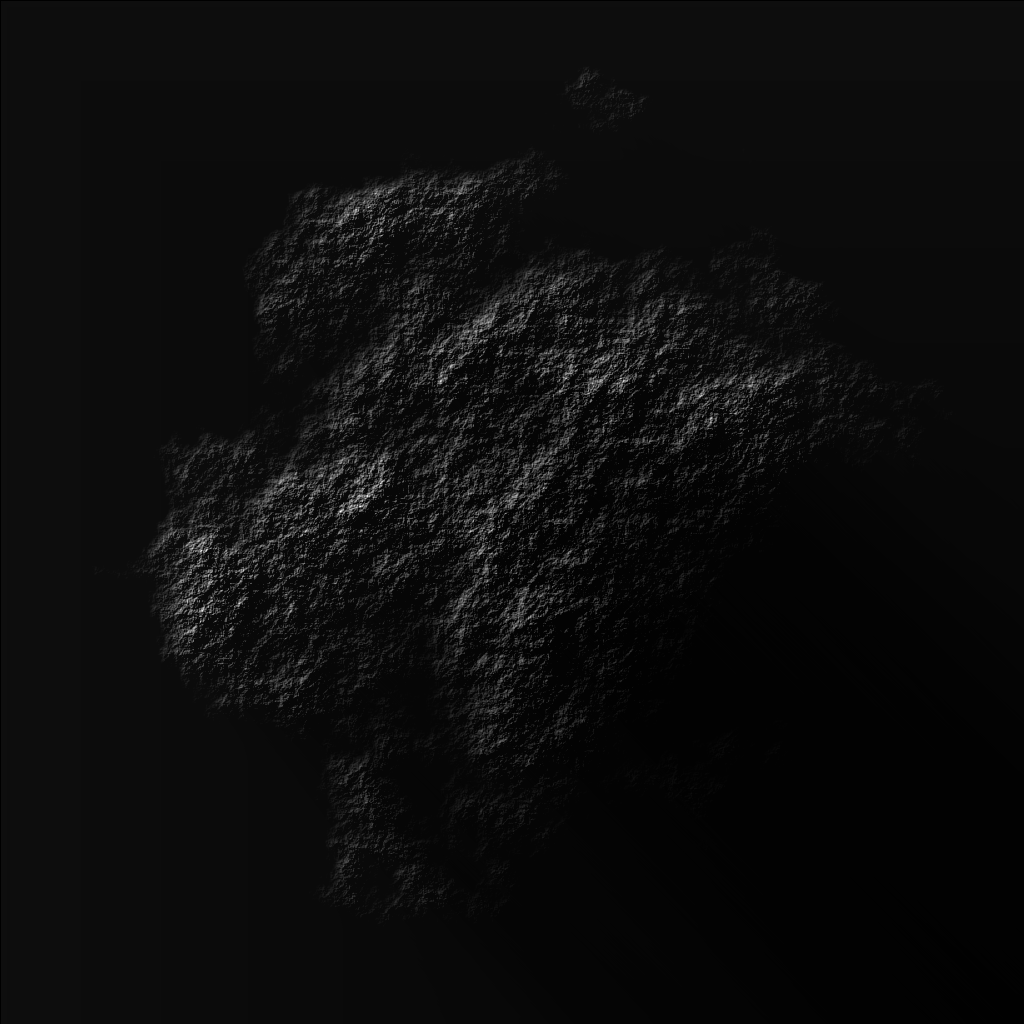
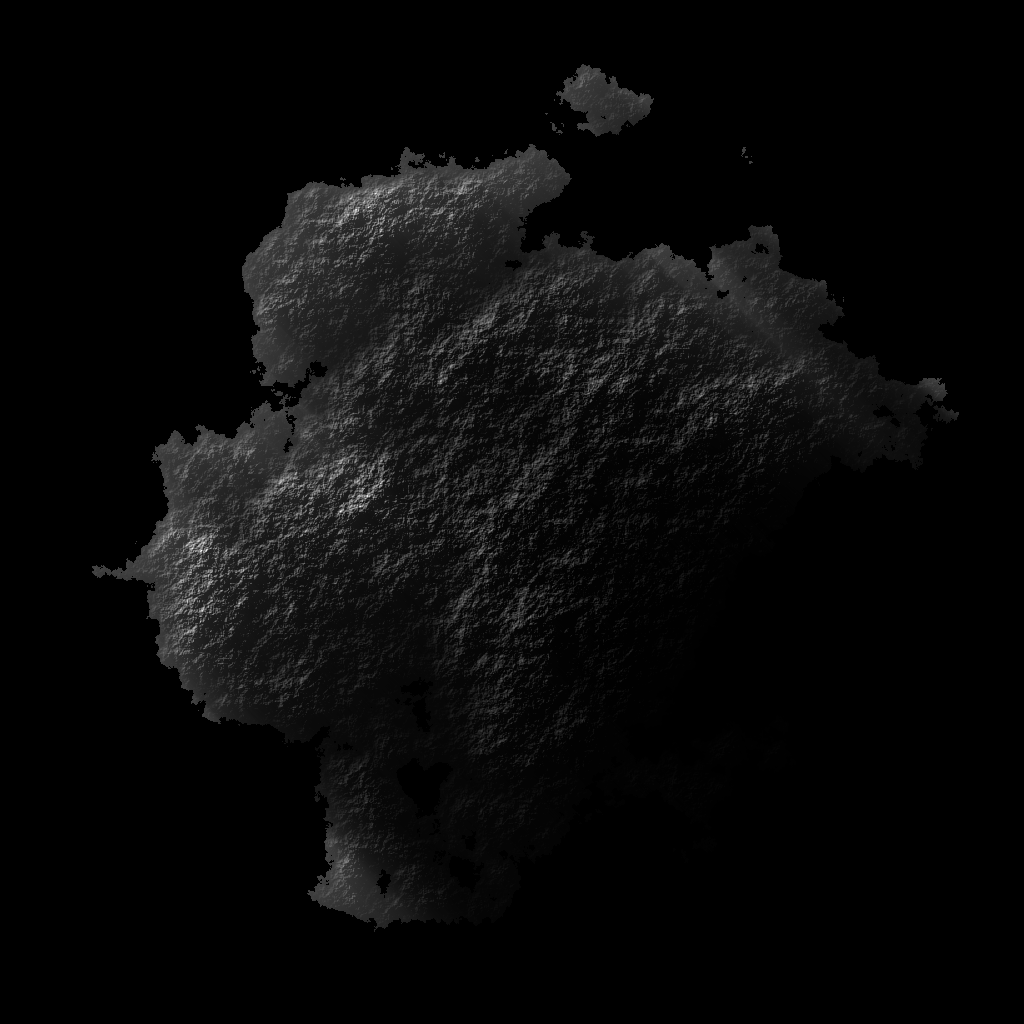
Improved rainmap generation

diff --git a/src/map.rs b/src/map.rs
@@ -306,13 +306,17 @@ impl ProvBuilder {
 
             for (i, &ii) in line.iter().enumerate() {
                 if i > 0 {
-                    let rainfall = rain * (self.rain_fall + match 2f64.powf(self.heightmap[ii] - self.heightmap[line[i-1]]) - 1. {
+                    let rainfall = rain * match 2f64.powf(self.heightmap[ii] - self.heightmap[line[i-1]]) - 1. {
                         x if x > 0. => x * self.rain_height,
                         _ => 0.,
-                    });
+                    };
+                    let droplets = match self.heightmap[ii] {
+                        x if x > 0. => rain * rain * self.rain_fall * (x + 1.) / 2.,
+                        _ => 0.,
+                    };
 
-                    self.rainmap[ii] = rainfall;
-                    rain -= rainfall;
+                    self.rainmap[ii] = rainfall + droplets;
+                    rain -= rainfall + droplets;
                 }
             }
         }

diff --git a/src/main.rs b/src/main.rs
@@ -259,7 +259,7 @@ impl Core {
 }
 
 fn main() {
-    let mut map = map::ProvBuilder::new(1024, 0.1, 0.6, 2., 0., 1., 0.1, 0.9, 16., 8., 12., (1., -1.), 1., 0.001, 2./3., 1./3.);
+    let mut map = map::ProvBuilder::new(1024, 0.1, 0.6, 2., 0., 1., 0.1, 0.9, 16., 8., 12., (1., -1.), 1., 0.01, 2./3., 1./3.);
 
     map.gen_heightmap();
     map.export(&map.heightmap, "heightmap.png");
